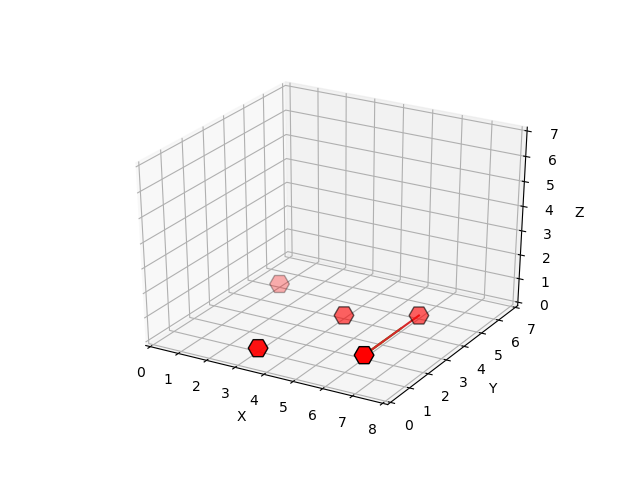
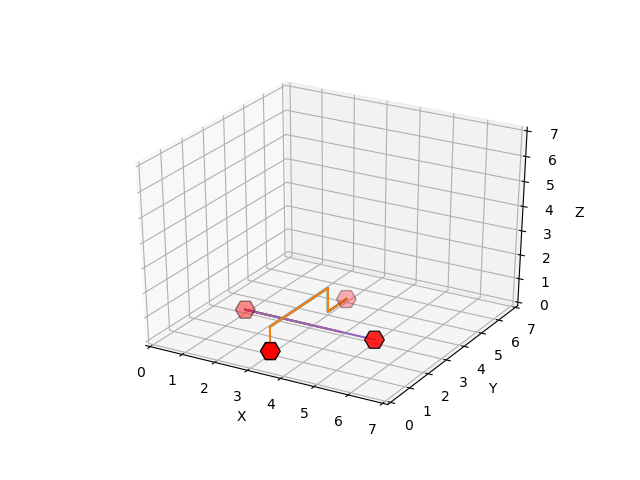
astar

diff --git a/code/algorithms/astar.py b/code/algorithms/astar.py
@@ -1,0 +1,112 @@
+import math
+from math import sqrt
+
+class Cor():
+	"""A coordination class for A* Pathfinding"""
+
+	def __init__(self, parent=None, position=None):
+		self.parent = parent
+		self.position = position
+
+		# cost 
+		self.c = 0
+		# heuristiek
+		self.h = 0
+		# sum
+		self.f = 0
+
+
+def astar(grid, start, end):
+	"""Returns a list of tuples as a path from the start gate and end gate""" 
+
+	# create start and end gate
+	start_gate = Cor(None, start)
+	start_gate.c = 0
+	start_gate.h = start_gate.f = sqrt((end[0] - start[0]) ** 2 + (end[1] - start[1]) ** 2)
+	end_gate = Cor(None, end)
+	end_gate.c = end_gate.h = end_gate.f = 0 
+	
+	# initialize lists and add start cor
+	queue = []
+	closed_list = []
+
+	queue.append(start_gate)
+
+	# loop while end_gate not found
+	while len(queue) > 0:
+		# sort by f and get cor with smallest f
+		current_cor = queue[0]
+		current_index = 0
+		for index, item in enumerate(queue):
+			if item.f < current_cor.f:
+				current_cor = item
+				current_index = index
+						
+		# remove current cor from queue
+		queue.pop(current_index)
+		closed_list.append(current_cor)
+
+		# found end gate
+		if current_cor.position == end_gate.position:
+			path = []
+			current = current_cor
+			while current is not None:
+				path.append(current.position)
+				current = current.parent
+			
+			for cor in path:
+				grid[cor[0]][cor[1]][cor[2]] = True
+			return path[::-1]
+		
+		# generate children, adjacent cors
+		children = []
+		for new_position in [(1, 0, 0), (-1, 0, 0), (0, 1, 0), (0, -1, 0), (0, 0, 1), (0, 0, -1)]:
+			# get cor of new position
+			cor_position = (current_cor.position[0] + new_position[0], current_cor.position[1] + new_position[1], current_cor.position[2] + new_position[2] )
+
+			# make sure the cor is within range grid
+			if cor_position[0] > (len(grid) -1) or cor_position[0] < 0 or cor_position[1] > (len(grid[len(grid)-1]) -1) or cor_position[1] < 0 or cor_position[2] > (len(grid[len(grid[len(grid)-1])-1]) -1) or cor_position[2] < 0:
+				continue
+			
+			# make sure cor is not already occupied
+			if grid[cor_position[0]][cor_position[1]][cor_position[2]] != False and cor_position != end_gate.position:
+				continue
+			
+			new_cor = Cor(current_cor, cor_position)
+
+			children.append(new_cor)
+
+			for child in children:
+				# check if child is on the closed_list
+				if not child in closed_list:
+				
+					# set c, h, and f values
+					child.c = current_cor.c + 1
+					
+					# use Pythagoras twice to calculate the heuristic (as the crow flies)
+					child.h = sqrt(sqrt((end[0] - child.position[0]) ** 2 + (end[1] - child.position[1]) ** 2) ** 2 + (end[2] - child.position[2]) ** 2)
+					child.f = child.c + child.h
+
+					# check if child already in queue and 
+					if not child in queue:
+						queue.append(child)
+					
+					else:
+						for cor in queue:
+							if child == cor and child.f < cor.f:
+								queue.append(child)
+						
+
+def execute_astar(net_cor, chip):
+	"""Executes astar function for all nets""" 
+	
+	grid = chip.grid
+	output_dict = {}
+
+	for net in net_cor:
+		start = net[0]
+		end = net[1]
+		path = astar(grid, start, end)
+		output_dict[net] = path
+
+	return output_dict

diff --git a/main.py b/main.py
@@ -27,7 +27,7 @@ if __name__ == '__main__':
 			req_chip = 'chip_2'
 			break
 		elif req_chip.lower() == 'test':
-			chip_path = 'data/test/print_1.csv'
+			chip_path = 'data/test/print.csv'
 			req_chip = 'test'
 			break
 		else:
@@ -56,8 +56,8 @@ if __name__ == '__main__':
 
 	# let user choose an algorithm
 	while True:
-		alg_req = input("Which algorithm would you like to use? (xyz_move, straight_first, random_netlist)\n").lower()
-		if alg_req == 'xyz_move' or alg_req == 'straight_first' or alg_req == 'random_netlist':
+		alg_req = input("Which algorithm would you like to use? (xyz_move, straight_first, random_netlist, astar)\n").lower()
+		if alg_req == 'xyz_move' or alg_req == 'straight_first' or alg_req == 'random_netlist' or alg_req == 'astar':
 			break
 		else:
 			print("This algorithm does not exist.")

diff --git a/code/classes/wiring.py b/code/classes/wiring.py
@@ -13,6 +13,7 @@ import csv
 from code.algorithms.xyz_move import xyz_wire
 from code.algorithms.straight_first import straight_wire 
 from code.algorithms.random_netlist import random_wire 
+from code.algorithms.astar import execute_astar
 
 class Wiring():
 	""" This class outputs wires to connect gates as listed in netlist. """
@@ -36,6 +37,8 @@ class Wiring():
 			algorithm = straight_wire
 		elif alg_req == 'random_netlist':
 			algorithm = random_wire
+		elif alg_req == 'astar':
+			algorithm = execute_astar
 
 		return algorithm
 
